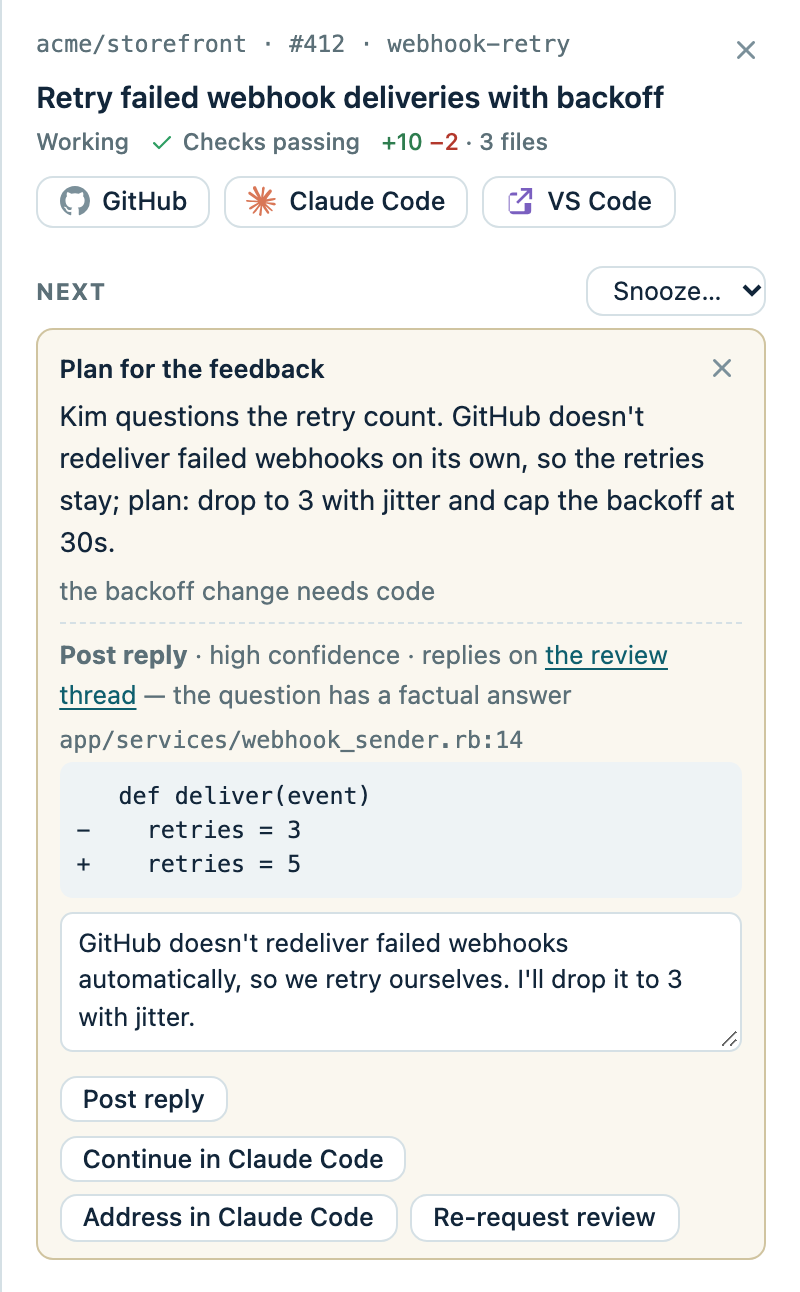
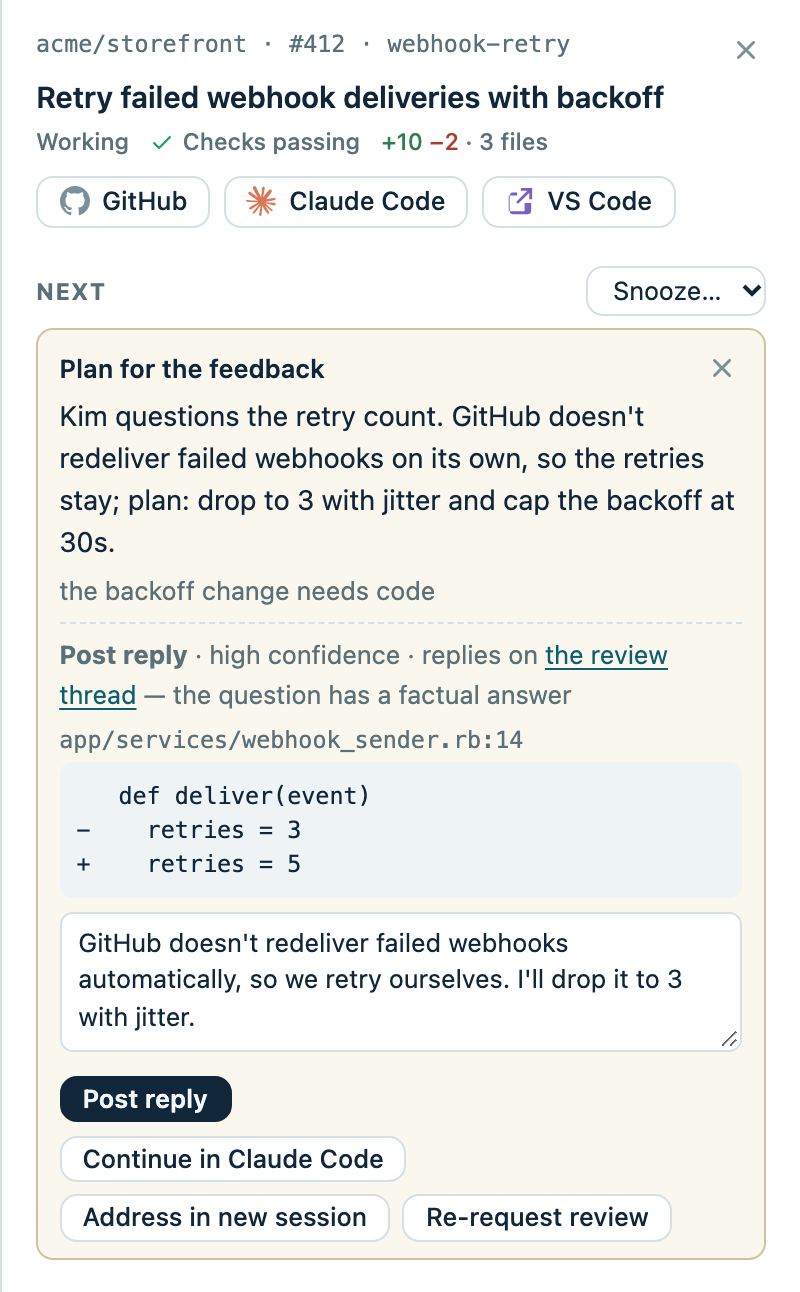
Give the first Next card one primary button (#224)
* Give each Next card one primary button

A card's buttons all carried the same weight, so the recommended step
looked no different from the alternatives. The first proposal that runs
from the card now leads, or the chip's own action when no pass has run.
A fix stays plain behind its diff, and a choice between two equals
(merge the base in or rebase) keeps both plain.

The button that starts a session with the rule's prompt now reads
"Address in new session", so it no longer looks like a twin of
"Continue in Claude Code", which resumes the pinned one.

* Lead only on the first card, and not while it waits to act

A second card's button would have matched the first's weight, and a
card that says its re-run will happen on its own still offered the
re-run as the main action.

Changed region(s): [[0.2812, 0.9288, 0.8438, 0.9598], [0.0625, 0.8359, 0.3125, 0.8669]]

diff --git a/js/sidebar.js b/js/sidebar.js
@@ -139,16 +139,16 @@ function continueTarget(pr) {
   return target && { path: target.path, session: target.session.id };
 }
 
-function continueButton(pr) {
+function continueButton(pr, cls = "") {
   const target = continueTarget(pr);
-  return target ? sessionLink(target.path, target.session, `Continue in ${esc(agentName())}`, "btn-link", prKey(pr)) : "";
+  return target ? sessionLink(target.path, target.session, `Continue in ${esc(agentName())}`, `btn-link ${cls}`, prKey(pr)) : "";
 }
 
 // A new session with the rule's prompt typed in; agents without a prompt URL resume instead.
-function promptButton(pr, rule, verb) {
+function promptButton(pr, rule, verb, cls = "") {
   const url = state.agent?.prompt_url;
   const template = state.rules?.[rule]?.prompt;
-  if (!url || !template) return continueButton(pr);
+  if (!url || !template) return continueButton(pr, cls);
   const prompt = template.replaceAll("{url}", pr.url).replaceAll("{repo}", pr.repository?.nameWithOwner || "")
     .replaceAll("{number}", pr.number).replaceAll("{branch}", pr.headRefName || "").replaceAll("{base}", pr.baseRefName || "");
   // A pin can sit in a clone that has since switched off your branch.
@@ -157,7 +157,7 @@ function promptButton(pr, rule, verb) {
   const link = url.replaceAll("{prompt}", encodeURIComponent(prompt));
   const make = path || review ? "" : ` data-make-worktree="${esc(link)}"`;
   const href = link.replaceAll("{path}", encodeURIComponent(path));
-  return `<a class="btn-link" data-continue="${esc(prKey(pr))}"${make} href="${esc(href)}" title="${esc(prompt)}">${esc(verb)} in ${esc(agentName())}</a>`;
+  return `<a class="btn-link ${cls}" data-continue="${esc(prKey(pr))}"${make} href="${esc(href)}" title="${esc(prompt)}">${esc(verb)} in new session</a>`;
 }
 
 function sidebarHeader(pr) {
@@ -204,7 +204,7 @@ function verdictHtml(p) {
 
 const cancelWaitButton = (card) => `<button type="button" data-cancel-wait="${card.id}">Cancel re-run</button>`;
 
-function proposalHtml(pr, card, p, i, bare = false) {
+function proposalHtml(pr, card, p, i, bare = false, lead = false) {
   if (p.action === "continue") return p.reason ? `<p class="nc-reason">${fmtCode(p.reason)}</p>` : "";
   if (p.action === "finish_on_github") {
     const n = p.payload?.comments || 0;
@@ -242,7 +242,7 @@ function proposalHtml(pr, card, p, i, bare = false) {
       body += `<ul class="nc-inline">${inline.map((c) => `<li><code>${esc(c.path)}:${esc(c.line)}</code> ${fmtCode(c.body)}</li>`).join("")}</ul>`;
     }
   }
-  let button = `<button type="button" class="nc-run${bare && p.action === "approve" ? " primary" : ""}" data-card="${card.id}" data-index="${i}" data-action="${esc(p.action)}" data-field="${field}">${esc(label)}</button>`;
+  let button = `<button type="button" class="nc-run${lead || (bare && p.action === "approve") ? " primary" : ""}" data-card="${card.id}" data-index="${i}" data-action="${esc(p.action)}" data-field="${field}">${esc(label)}</button>`;
   if (p.action === "apply_fix") {
     // Never the default: the diff shows first, and the button stays plain.
     button = shownDiffs.has(field)
@@ -286,7 +286,7 @@ function serverCardHtml(pr, card, first) {
   }
   if (card.kind === "offer") {
     return `<div class="${cls}"><div class="nc-head">${title}${dismiss}</div>
-      <div class="nc-actions"><button type="button" data-run-pass="${esc(card.pass)}">Ask ${esc(agentName())}</button>${continueButton(pr)}</div>
+      <div class="nc-actions"><button type="button" class="${first ? "primary" : ""}" data-run-pass="${esc(card.pass)}">Ask ${esc(agentName())}</button>${continueButton(pr)}</div>
       ${card.pass === "pre_review" ? suggestHtml("pre_review") : ""}</div>`;
   }
   if (card.kind === "error" || card.kind === "raw") {
@@ -299,7 +299,7 @@ function serverCardHtml(pr, card, first) {
   if (card.kind === "proposal") {
     return `<div class="${cls}"><div class="nc-head">${fmtCode(card.title)}${dismiss}</div>
       <p class="nc-reason">${fmtCode(card.summary || "")}</p>
-      <div class="nc-actions"><button type="button" class="nc-run" data-card="${card.id}" data-index="0" data-action="${esc(card.action)}">${esc(ACTION_LABELS[card.action] || "Do it")}</button>
+      <div class="nc-actions"><button type="button" class="nc-run${first ? " primary" : ""}" data-card="${card.id}" data-index="0" data-action="${esc(card.action)}">${esc(ACTION_LABELS[card.action] || "Do it")}</button>
         <button type="button" data-dismiss="${card.id}">Dismiss</button></div></div>`;
   }
   const chip = card.pass === "feedback"
@@ -315,16 +315,23 @@ function serverCardHtml(pr, card, first) {
     : card.auto_wait?.until ? `<p class="nc-held">Auto-approves at ${esc(new Date(card.auto_wait.until).toLocaleTimeString([], { hour: "numeric", minute: "2-digit" }))}, a few minutes after the push.</p>`
     : card.auto_wait?.manual ? `<p class="nc-held">Re-runs the failed jobs once the rest of the workflow run finishes.</p>`
     : card.auto_wait ? `<p class="nc-held">Re-runs the failed checks automatically once the running ones finish.</p>` : "";
-  const proposals = (card.proposals || []).map((p, i) => proposalHtml(pr, card, p, i, i === vi)).join("");
+  // One button leads, on the first card only: the first proposal that runs from here, or Continue when the
+  // agent only said to carry on. A review card's verdict already leads, a fix stays behind its diff, and
+  // nothing leads while the card is waiting to act on its own.
+  const list = card.proposals || [];
+  const leads = first && vi < 0 && !card.auto_wait;
+  const lead = leads ? list.findIndex((p) => !["continue", "apply_fix"].includes(p.action)) : -1;
+  const leadContinue = leads && lead < 0 && list.some((p) => p.action === "continue");
+  const proposals = list.map((p, i) => proposalHtml(pr, card, p, i, i === vi, i === lead)).join("");
   return `<div class="${cls}"><div class="nc-head">${title}${dismiss}</div>${verdict}${held}
     ${verdict ? '<div class="nc-label">Summary</div>' : ""}<p>${fmtCode(card.summary || "")}</p>${proposals}
-    ${review && !openKept ? "" : `<div class="nc-actions">${openKept}${review ? "" : continueButton(pr)}${rerun}${rerequest}${viewLog}</div>`}</div>`;
+    ${review && !openKept ? "" : `<div class="nc-actions">${openKept}${review ? "" : continueButton(pr, leadContinue ? "primary" : "")}${rerun}${rerequest}${viewLog}</div>`}</div>`;
 }
 
-function rerequestButton(reviewers, cardId) {
+function rerequestButton(reviewers, cardId, cls = "") {
   if (!reviewers?.length) return "";
   const done = cardId ? ` data-done-card="${cardId}"` : "";
-  return `<button type="button" class="nc-run" data-pr-action="rerequest_review" data-reviewers="${esc(reviewers.join(","))}"${done}>Re-request review</button>`;
+  return `<button type="button" class="nc-run ${cls}" data-pr-action="rerequest_review" data-reviewers="${esc(reviewers.join(","))}"${done}>Re-request review</button>`;
 }
 
 // With no card from the server, the chip still implies the buttons that fit it.
@@ -333,20 +340,20 @@ function derivedCardHtml(pr, chip) {
   const key = prKey(pr);
   const field = `d-${key}-${chip.kind}`;
   const run = (action, label, cls = "") => `<button type="button" class="nc-run ${cls}" data-pr-action="${esc(action)}" data-field="${esc(field)}">${esc(label)}</button>`;
-  const rerequest = rerequestButton(chip.reviewers);
+  const rerequest = rerequestButton(chip.reviewers, null, chip.kind === "address_feedback" ? "" : "primary");
   let body = "";
   let actionsHtml = "";
   if (chip.kind === "merge") {
     body = "Approved and checks are green.";
-    actionsHtml = run("merge", "Merge") + (pr.viewerCanEnableAutoMerge ? run("enable_auto_merge", "Enable auto-merge") : "");
+    actionsHtml = run("merge", "Merge", "primary") + (pr.viewerCanEnableAutoMerge ? run("enable_auto_merge", "Enable auto-merge") : "");
   } else if (chip.kind === "rerequest_mine") {
     body = `@${chip.author} updated this after you requested changes but hasn't asked you to look again. Put it back in your review queue:`;
-    actionsHtml = rerequestButton([state.viewer]);
+    actionsHtml = rerequestButton([state.viewer], null, "primary");
   } else if (chip.kind === "nudge") {
     const owner = (pr.repository?.nameWithOwner || "").split("/")[0];
     const mentions = (chip.reviewers || []).map((r) => r.startsWith("team:") ? `@${owner}/${r.slice(5)}` : `@${r}`).join(" ");
     body = `Waiting on review for ${chip.label.split("· ")[1] || "a while"}. The nudge posts as a PR comment under your name:`;
-    actionsHtml = textField(field, `${mentions} friendly nudge: this is ready for review when you have a minute. Thanks!`) + run("nudge", "Post nudge");
+    actionsHtml = textField(field, `${mentions} friendly nudge: this is ready for review when you have a minute. Thanks!`) + run("nudge", "Post nudge", "primary");
   } else if (chip.kind === "ask_approval") {
     body = `${chip.reviewers.join(", ")} signed off in a comment, but GitHub still needs an approval to merge. Ask again so it lands in their review queue:`;
     actionsHtml = rerequest;
@@ -358,7 +365,7 @@ function derivedCardHtml(pr, chip) {
     const verb = chip.approval ? "approved with comments"
       : pr.reviewDecision === "CHANGES_REQUESTED" ? "requested changes" : "left review comments";
     body = `${chip.reviewers.join(", ")} ${verb}${open ? ` · ${open} open thread${open === 1 ? "" : "s"}` : ""}.`;
-    actionsHtml = (chip.approval ? afterApprovalButton(pr) : "") + promptButton(pr, "address_feedback", "Address") + (chip.approval
+    actionsHtml = (chip.approval ? afterApprovalButton(pr) : "") + promptButton(pr, "address_feedback", "Address", chip.approval ? "" : "primary") + (chip.approval
       ? `<a class="btn-link" href="${esc(pr.url)}" target="_blank" rel="noopener">View on GitHub</a>` : rerequest);
   } else if (chip.kind === "resolve_conflicts") {
     body = `This branch conflicts with ${pr.baseRefName || "its base"}, so it can't merge until they're resolved.`;
@@ -376,7 +383,7 @@ function derivedCardHtml(pr, chip) {
   } else if (PASS_FOR_CHIP[chip.kind]) {
     body = { fix_ci: `Failing: ${failingChecks(pr).map((c) => c.name).join(", ") || "checks"}.`,
       review: "Your review is requested.", re_review: "The author asked you to look again." }[chip.kind];
-    actionsHtml = `<button type="button" data-run-pass="${PASS_FOR_CHIP[chip.kind]}">Ask ${esc(agentName())}</button>` + continueButton(pr)
+    actionsHtml = `<button type="button" class="primary" data-run-pass="${PASS_FOR_CHIP[chip.kind]}">Ask ${esc(agentName())}</button>` + continueButton(pr)
       + (chip.kind === "fix_ci" && failingChecks(pr)[0]?.url ? `<a class="btn-link" href="${esc(failingChecks(pr)[0].url)}" target="_blank" rel="noopener">View log</a>` : "");
   } else {
     return "";
